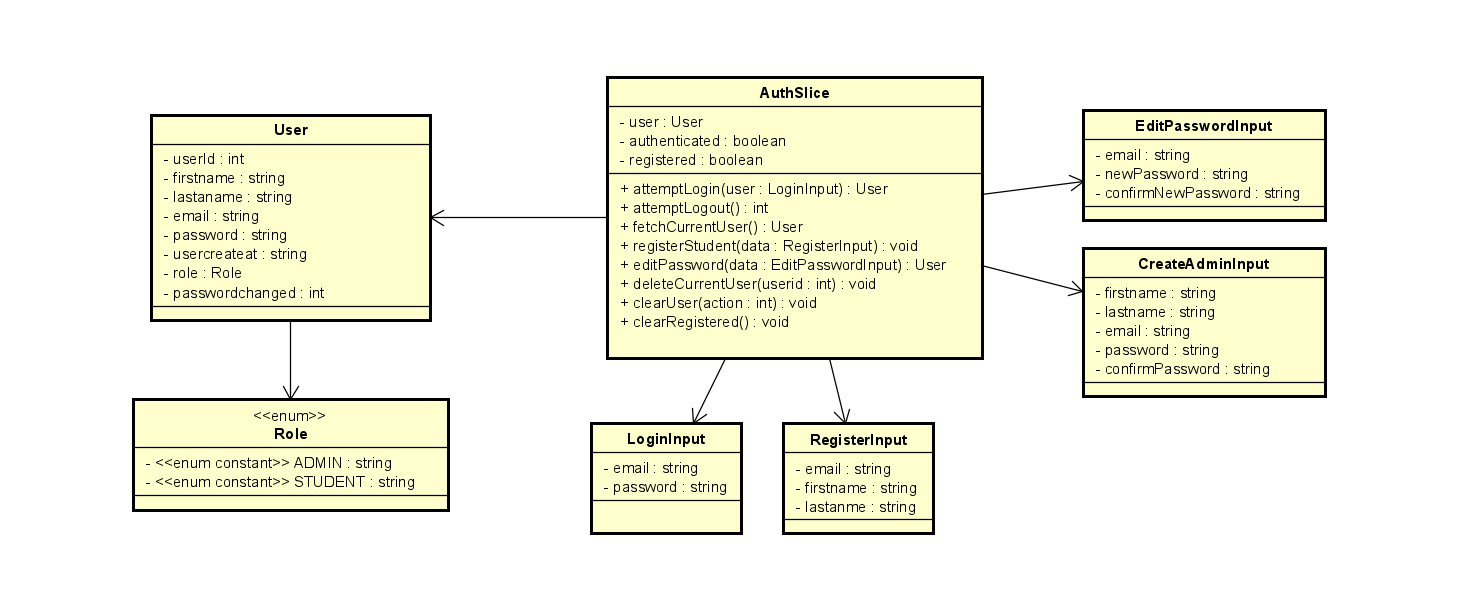
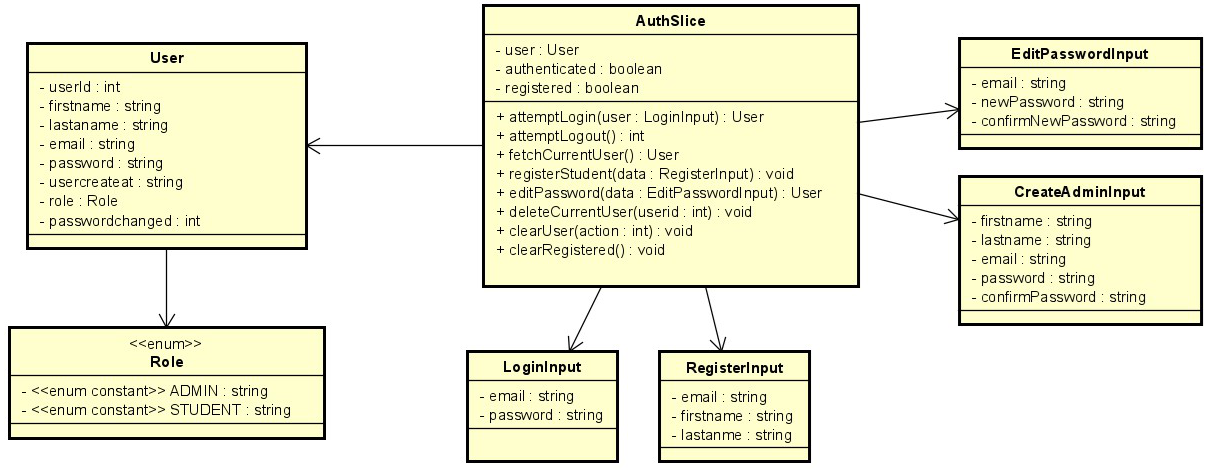
Dodani frontend class dijagrami za sve sliceove

diff --git a/dokumentacija/Arhitektura.tex b/dokumentacija/Arhitektura.tex
@@ -299,16 +299,51 @@ Razredi na frontend dijelu aplikacije podijeljeni su u tri skupine.
 Za potrebu generičkih funkcionalnosti (Slika \ref{fig:class-front-implemented}) implementiran je AuthSlice razred sa svim povezanim razredima (Korisnik, LoginInput, RegisterInput). Na slici \ref{fig:class-front} prikazani su na konceptualnoj razini i razini modela domene sustava razredi s frontend dijela aplikacije koji ne pripadaju generičkim funkcionalnostima.
 
 \begin{figure}[htp]
-	\includegraphics[scale=0.55]{dijagrami/class_front_implemented.png}
+	\includegraphics[scale=0.47]{dijagrami/AdminSlice.png}
 	\centering
-	\caption{Dijagram razreda za generičke funkcionalnosti frontend dijela aplikacije}
-	\label{fig:class-front-implemented}
+	\caption{Dijagram razreda za slice Admin}
+	\label{fig:class-front}
 \end{figure}
 
 \begin{figure}[htp]
-	\includegraphics[scale=0.5]{dijagrami/class_front.png}
+	\includegraphics[scale=0.6]{dijagrami/authSlice.png}
 	\centering
-	\caption{Ostale funkcionalnosti frontend dijela aplikacije}
+	\caption{Dijagram razreda za slice Auth}
+	\label{fig:class-front}
+\end{figure}
+
+\begin{figure}[htp]
+	\includegraphics[scale=0.57]{dijagrami/DictionariesSlice.png}
+	\centering
+	\caption{Dijagram razreda za slice Dictionaries}
+	\label{fig:class-front}
+\end{figure}
+
+\begin{figure}[htp]
+	\includegraphics[scale=0.6]{dijagrami/LanguageSlice.png}
+	\centering
+	\caption{Dijagram razreda za slice Language}
+	\label{fig:class-front}
+\end{figure}
+
+\begin{figure}[htp]
+	\includegraphics[scale=0.6]{dijagrami/StudentDictionariesSlice.png}
+	\centering
+	\caption{Dijagram razreda za slice Student Dictionaries}
+	\label{fig:class-front}
+\end{figure}
+
+\begin{figure}[htp]
+	\includegraphics[scale=0.5]{dijagrami/StudySessionSlice.png}
+	\centering
+	\caption{Dijagram razreda za slice Study Session}
+	\label{fig:class-front}
+\end{figure}
+
+\begin{figure}[htp]
+	\includegraphics[scale=0.5]{dijagrami/WordsSlice.png}
+	\centering
+	\caption{Dijagram razreda za slice Words}
 	\label{fig:class-front}
 \end{figure}
 
